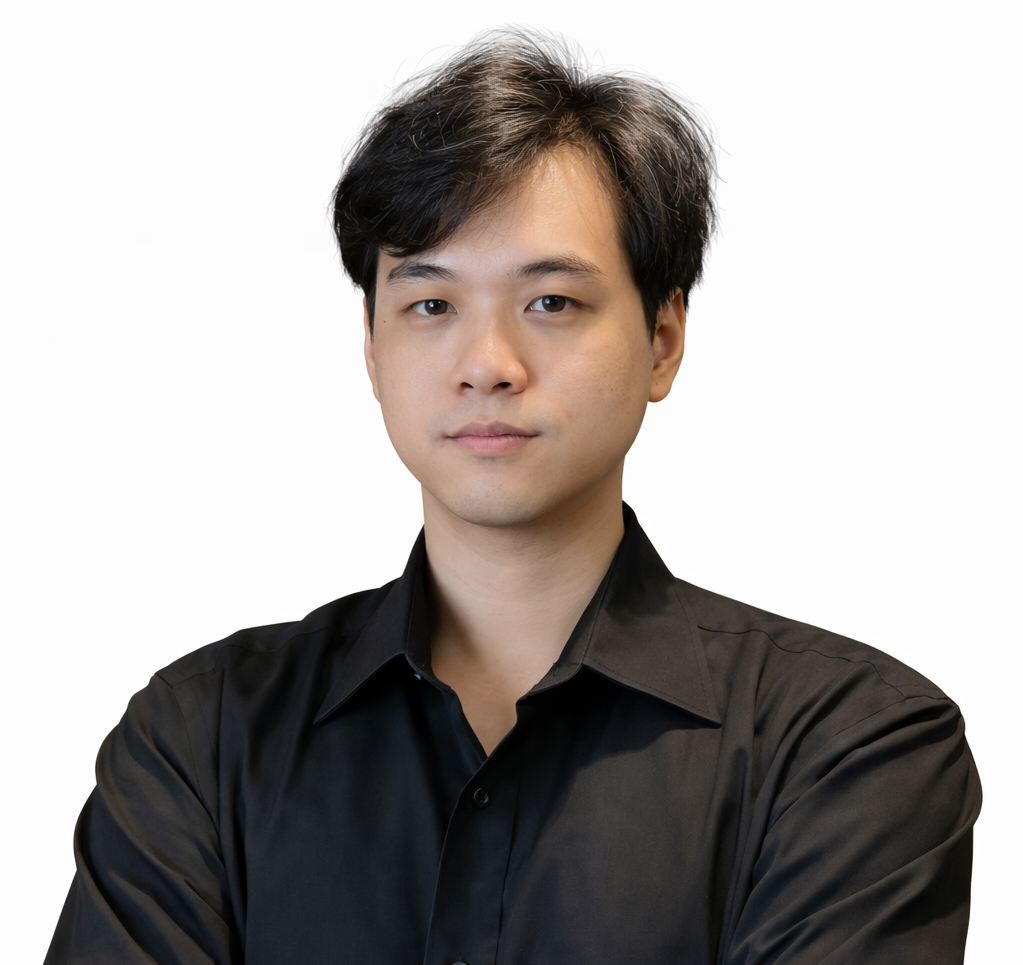
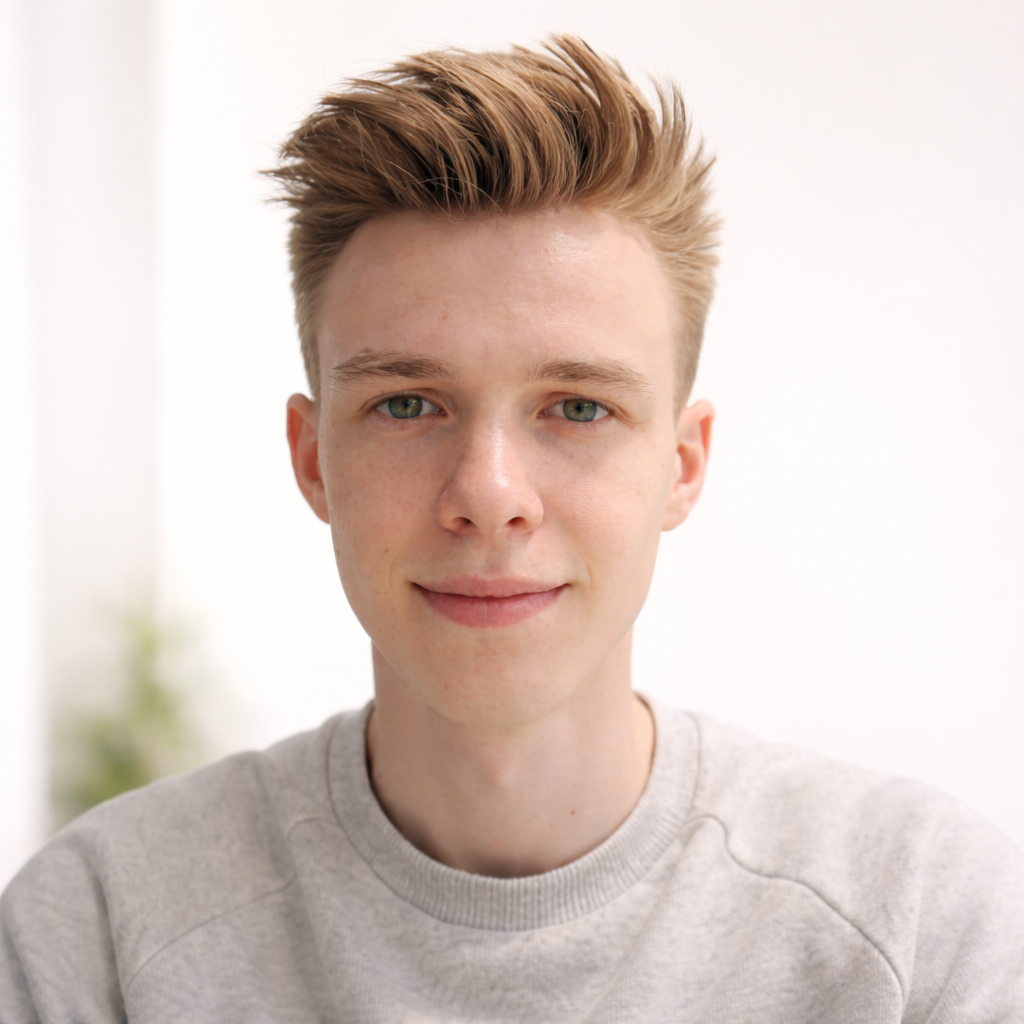
fix issue

diff --git a/src/config.ts b/src/config.ts
@@ -8,9 +8,9 @@ import instinctoolsLogo from '~/public/images/Instinctools-logo.jpg';
 export const SITE_URL =
   process.env.NEXT_PUBLIC_SITE_URL || 'http://localhost:3000';
 
-export const FULL_NAME = 'Long Ngo';
+export const FULL_NAME = 'Ivan Kazantsev';
 
-export const EMAIL = 'ollydev245@gmail.com';
+export const EMAIL = 'kazantsev.ivan2813@gmail.com';
 
 export const RESUME = `${SITE_URL}/resume.pdf`;
 
@@ -26,7 +26,7 @@ export const WORK_EXPERIENCE = [
     company: 'Instinctools',
     image: instinctoolsLogo,
     startDate: '2024-01-01T00:00',
-    endDate: '2025-02-31T00:00',
+    endDate: '2025-12-31T00:00',
     description:
       'Designed and implemented LLM-powered applications including AI content generators, document analysis systems, and conversational assistants. Built RAG (Retrieval-Augmented Generation) pipelines combining vector databases with GPT-4 to deliver accurate, context-aware responses. Developed AI-powered PDF/book generation systems with automated layout, image generation, and multilingual support. Integrated OpenAI, Together AI, and Hugging Face APIs with cost-optimized token usage. Implemented machine learning models for natural language processing, text classification, and predictive analytics. Developed ML pipelines for data preprocessing, feature engineering, model training, and deployment. Utilized TensorFlow, PyTorch, and scikit-learn for building and training ML models. Implemented secure authentication, role-based access control, and API key management for AI platforms. Deployed scalable AI services on AWS using Docker and serverless architectures.',
   },
@@ -61,13 +61,11 @@ export const WORK_EXPERIENCE = [
 
 export const DESCRIPTION = `Software engineer mainly focused on frontend with about ${EXPERIENCE_YEARS} years of experience who always pays attention to details and thinks about the end users of a product.`;
 
-export const GITHUB_USERNAME = 'longngo0924';
+export const GITHUB_USERNAME = 'jagelous';
 export const GITHUB_URL = `https://github.com/${GITHUB_USERNAME}`;
 
-export const TELEGRAM_USERNAME = 'longngo09242';
+export const TELEGRAM_USERNAME = 'jagelous11115';
 export const TELEGRAM_URL = `https://t.me/${TELEGRAM_USERNAME}`;
-export const DISCORD_USERNAME = "longngo09242";
-export const DISCORD_URL = `https://discord.com/users/1425863578128482386`;
 
 export const STACK = [
   'TypeScript',
@@ -106,7 +104,7 @@ export const STACK = [
 
 export const INTERESTS = ['Chess', 'Guitar', 'Pets', 'Dancing', 'Traveling'];
 
-export const TIME_ZONE = 'UTC/GMT + 7';
+export const TIME_ZONE = 'EET (GMT+2)';
 
 export const THEME = {
   light: 'light',
